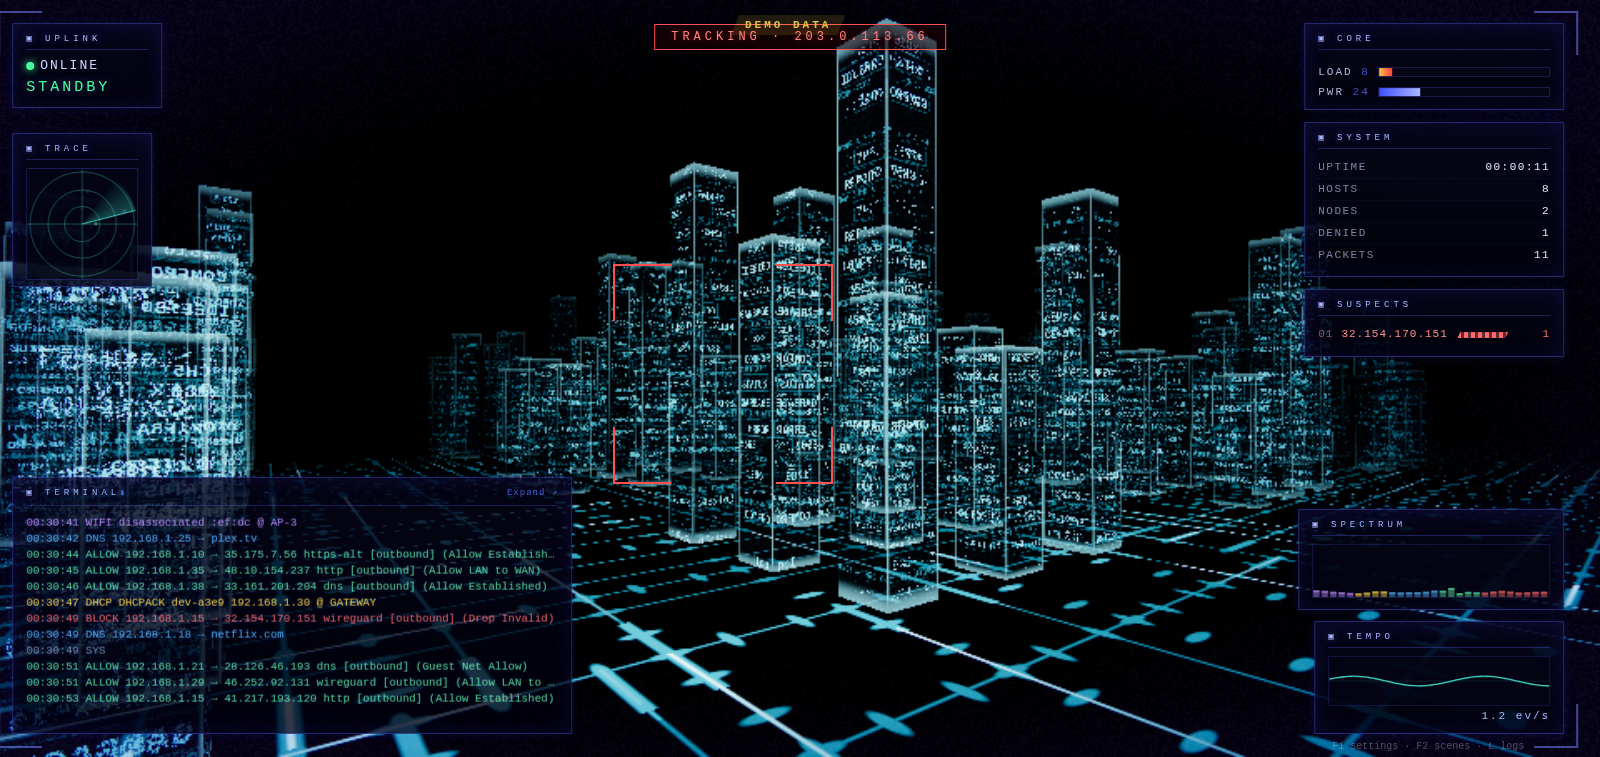
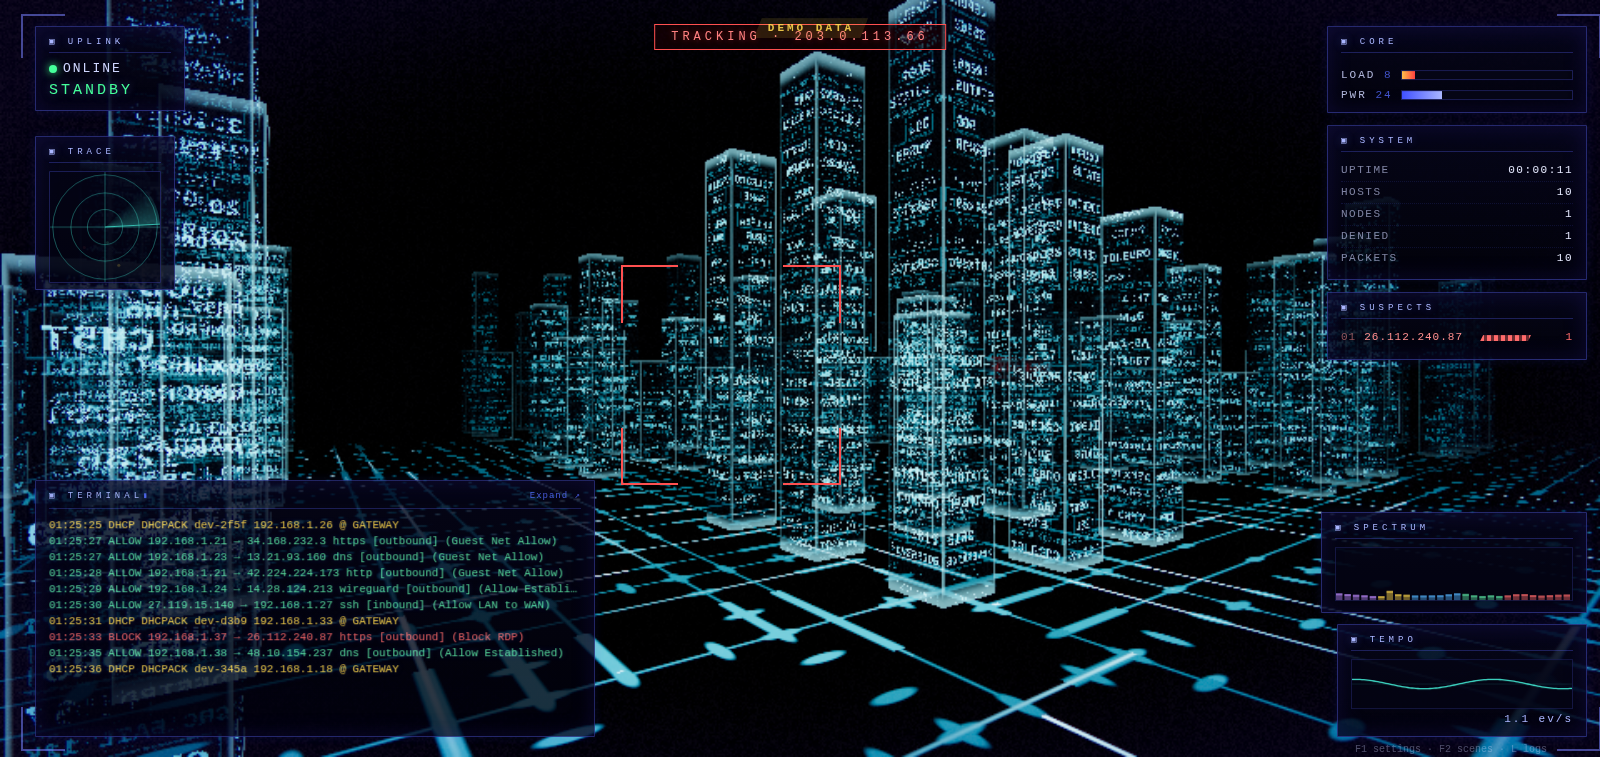
Gibson: glide through the turns; the ground board belongs to the city
- the trace grid is part of the city now: it swings around the intersection
  with the towers instead of streaming on independently (uRot/uPiv in the
  ground shader, cumulative rotation), and a vec2/vec3 varying mismatch in
  the ground material is fixed
- no more stop-turn-move: the flow only eases to half speed for the turn,
  the swing is shorter (1.8 s) with a smootherstep ramp, and the flight
  eases back to the middle of the new street while it speeds up again
- lattice bookkeeping: the city's slide through the corner is tracked, the
  next intersection timing is corrected for it, and the sideways drift is
  eased out by the camera

diff --git a/web/src/themes/gibson/index.ts b/web/src/themes/gibson/index.ts
@@ -96,8 +96,9 @@ async function create(host: ThemeHost<typeof GIBSON_DEFAULTS>, init: RendererIni
   // the film's signs are rare, punctuation not wallpaper: minutes apart
   let nextDeny = 0, nextGrant = 0, flyT = Math.random() * 100;
   // the intersection turn: full 90s down the computer city's grid
-  const TURN_DUR = 2.2;
+  const TURN_DUR = 1.8;
   let turning = false, turnT = 0, turnDone = 0, turnDir = 1, crossIn = CITY_P * (1 + ((Math.random() * 2) | 0));
+  let rotCum = 0, driftX = 0, driftZ = 0;
   const banner = (text: string, color: string, nextRef: 'deny' | 'grant', everySec: number, jitterSec: number) => {
     const now = performance.now();
     if (!settings.gBanners || now < (nextRef === 'deny' ? nextDeny : nextGrant)) return;
@@ -187,26 +188,38 @@ async function create(host: ThemeHost<typeof GIBSON_DEFAULTS>, init: RendererIni
     }
     flyT += dtReal;
     const rate = state.rate30s / 30;
-    const speed = (0.9 + Math.min(2.5, rate * 0.06) + heat * 0.9) * settings.gScrollSpeed * (lockOn ? 0.3 : turning ? 0 : 1);
+    const speed = (0.9 + Math.min(2.5, rate * 0.06) + heat * 0.9) * settings.gScrollSpeed * (lockOn ? 0.3 : turning ? 0.55 : 1);
 
-    // the computer city: fly down a street and turn at every intersection.
-    // The camera holds still at the corner while the whole city swings around
-    // it, so the lattice stays true: when the swing ends, the new street is
-    // dead ahead. The flow pauses for the pivot and resumes out the other side.
+    // the computer city: fly down a street and glide through a turn at every
+    // intersection - the flow eases down instead of stopping, the whole city
+    // (towers, signs and the ground board alike) swings around the camera, and
+    // the flight eases back to the middle of the new street as it speeds up
     if (turning) {
       turnT += dtReal;
       const p = Math.min(1, turnT / TURN_DUR);
-      const ease = p * p * (3 - 2 * p);
+      const ease = p * p * p * (p * (p * 6 - 15) + 10);
       const dNow = turnDir * (Math.PI / 2) * ease;
       const dStep = dNow - turnDone;
       turnDone = dNow;
       towers.rotate(dStep, 0, 7);
       billboards.rotate(dStep, 0, 7);
-      if (p >= 1) { turning = false; crossIn = CITY_P * (1 + ((Math.random() * 2) | 0)); }
+      rotCum += dStep;
+      ground.setRot(rotCum);
+      // how far the flowing city slid off its lattice while we swung
+      const c = Math.cos(dStep), s = Math.sin(dStep);
+      const dx = driftX * c - driftZ * s;
+      driftZ = driftX * s + driftZ * c + speed * dtReal;
+      driftX = dx;
+      if (p >= 1) {
+        turning = false;
+        crossIn = CITY_P * (1 + ((Math.random() * 2) | 0)) - driftZ;
+      }
     } else if (!lockOn) {
+      // the city slid forward through the corner: the next one is closer
+      driftX *= Math.exp(-dtReal * 1.1);
       crossIn -= speed * dtReal;
       if (crossIn <= 0) {
-        turning = true; turnT = 0; turnDone = 0;
+        turning = true; turnT = 0; turnDone = 0; driftX = 0; driftZ = 0;
         turnDir = Math.random() < 0.5 ? -1 : 1;
       }
     }
@@ -214,7 +227,8 @@ async function create(host: ThemeHost<typeof GIBSON_DEFAULTS>, init: RendererIni
 
     // the flight: straight down the corridor at street level, low under the
     // towers; during a turn it looks into the corner and banks through it
-    const camX = lockOn ? lockTarget.x * 0.25 + f.wanderX * 0.0015 : f.wanderX * 0.0012;
+    const camX = lockOn ? lockTarget.x * 0.25 + f.wanderX * 0.0015
+      : f.wanderX * 0.0012 - driftX;
     const camY = lockOn ? 3.0 : 2.4 + Math.sin(flyT * 0.067) * 0.35 + f.wanderY * 0.0004;
     if (!lockOn) {
       lookWant.set(

diff --git a/web/src/themes/gibson/ground.ts b/web/src/themes/gibson/ground.ts
@@ -1,4 +1,4 @@
-import { Color, Mesh, PlaneGeometry, ShaderMaterial, Vector3 } from 'three';
+import { Color, Mesh, PlaneGeometry, ShaderMaterial, Vector2, Vector3 } from 'three';
 
 /**
  * The floor of the storage cavern: a black plane wired like a circuit board
@@ -19,13 +19,18 @@ const VERT = /* glsl */`
 
 const FRAG = /* glsl */`
   precision highp float;
-  uniform float uScroll, uTime, uFogD, uPulse;
+  uniform float uScroll, uTime, uFogD, uPulse, uRot;
+  uniform vec2 uPiv;
   uniform vec3 uColor, uCamPos;
   varying vec3 vWorld;
   float h21(vec2 p) { p = fract(p * vec2(123.34, 456.21)); p += dot(p, p + 45.32); return fract(p.x * p.y); }
   void main() {
-    // pattern coords fixed to the floor: features ride toward the camera
-    vec2 P = vec2(vWorld.x, vWorld.z - uScroll);
+    // the board belongs to the city: pattern coords ride with the ground and
+    // swing around the intersection pivot with it when the flight turns
+    vec2 q = vec2(vWorld.x, vWorld.z) - uPiv;
+    float cr = cos(uRot), sr = sin(uRot);
+    vec2 r = vec2(q.x * cr + q.y * sr, -q.x * sr + q.y * cr);
+    vec2 P = vec2(r.x, r.y - uScroll);
     float w = 0.045;
     float LW = 2.6;
     float SEG = 17.0;
@@ -83,6 +88,8 @@ export class Ground {
         uTime: { value: 0 },
         uFogD: { value: 0.044 },
         uPulse: { value: 1 },
+        uRot: { value: 0 },
+        uPiv: { value: new Vector2(0, 7) },
         uColor: { value: new Color(0x3fd9ff) },
         uCamPos: { value: new Vector3(0, 2.4, 7) },
       },
@@ -94,6 +101,11 @@ export class Ground {
     this.mesh.rotation.x = -Math.PI / 2;
     this.mesh.position.set(0, 0, -45 + 7);
     scene.add(this.mesh);
+  }
+
+  /** Swing the board with the city during a turn (cumulative radians). */
+  setRot(r: number): void {
+    this.material.uniforms.uRot.value = r;
   }
 
   /** speed: wall scroll units/sec; pulse: music glow; fog: distance fade. */
